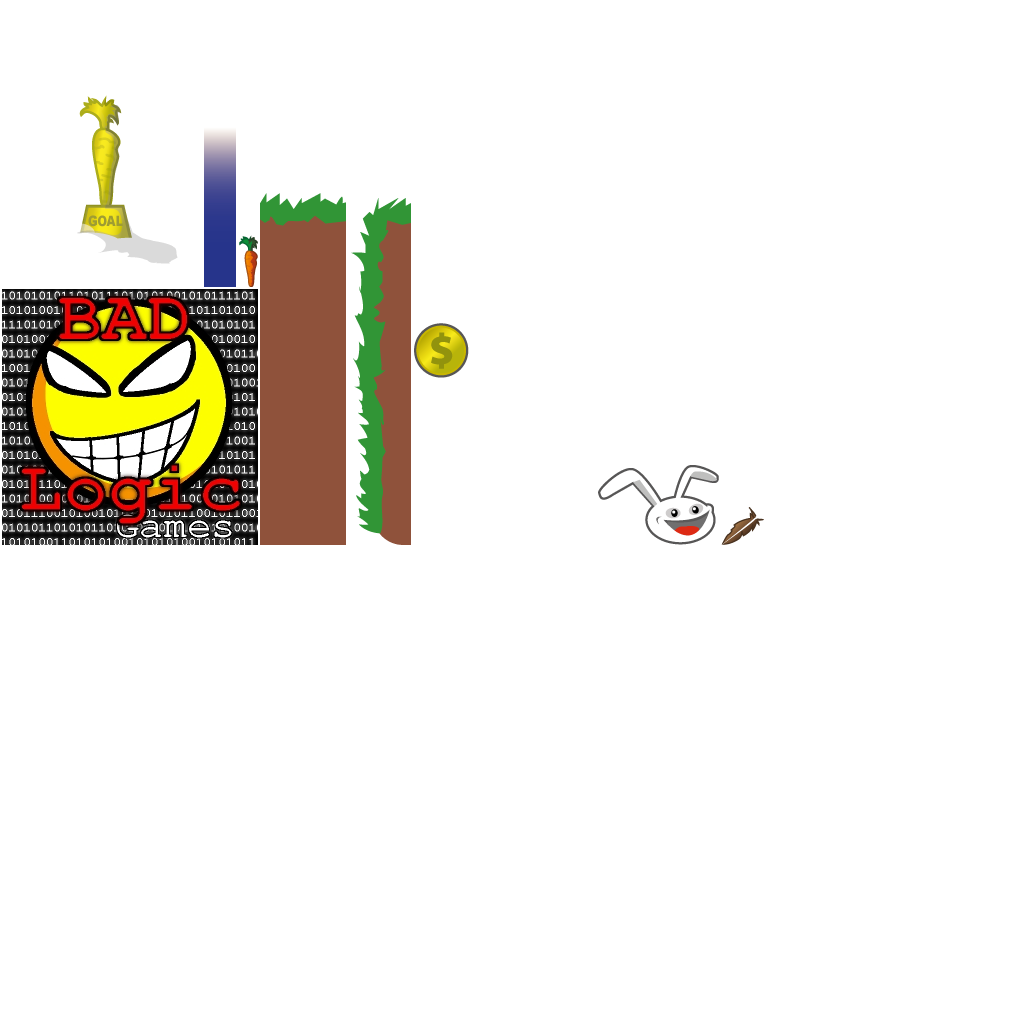
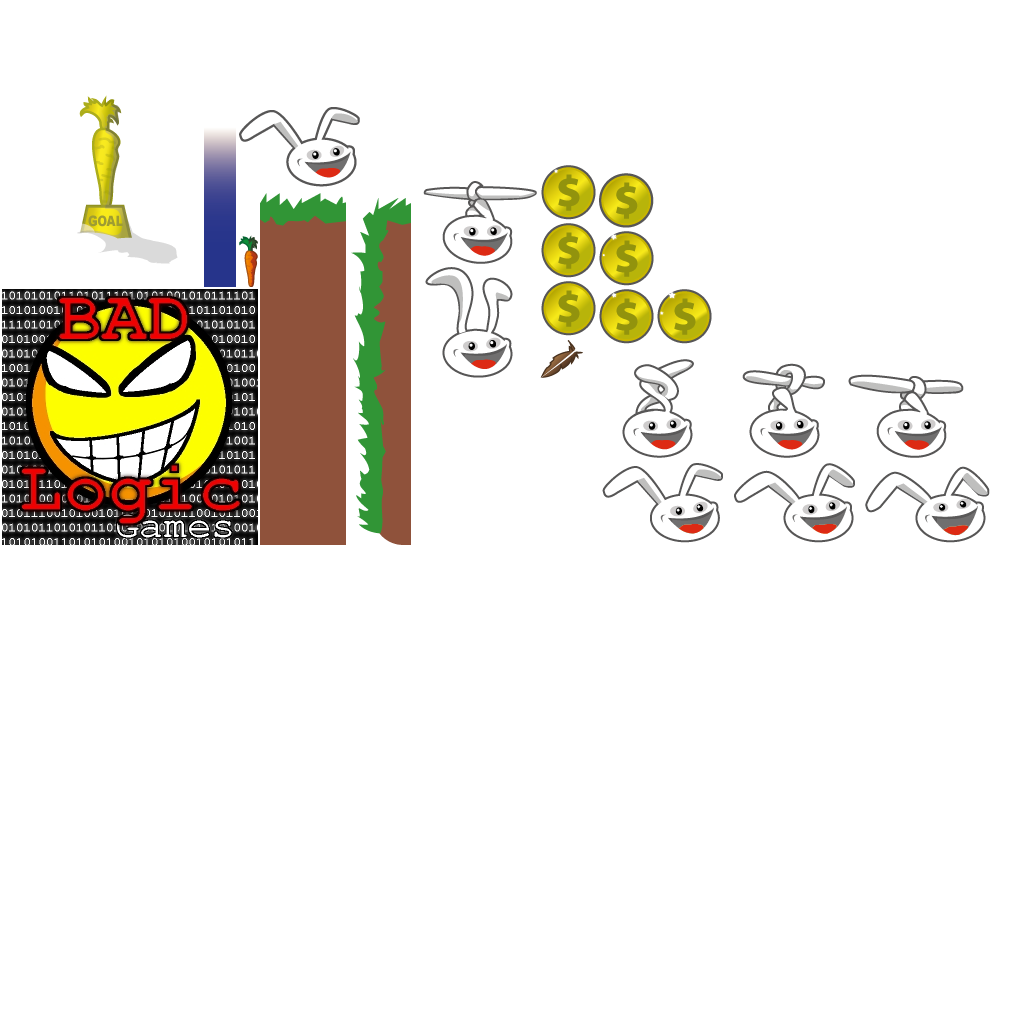
some bullcrap

Changed region(s): [[0.4062, 0.1562, 0.9688, 0.5312], [0.25, 0.0938, 0.3438, 0.1875]]

diff --git a/desktop/src/com/libgdx/csc361_f18_g8/desktop/DesktopLauncher.java b/desktop/src/com/libgdx/csc361_f18_g8/desktop/DesktopLauncher.java
@@ -9,7 +9,7 @@ import com.libgdx.csc361_f18_g8.CanyonBunnyMain;
 
 public class DesktopLauncher
 {
-	private static boolean rebuildAtlas = false;
+	private static boolean rebuildAtlas = true;
 	private static boolean drawDebugOutline = false;
 	
 	public static void main(String[] arg)
